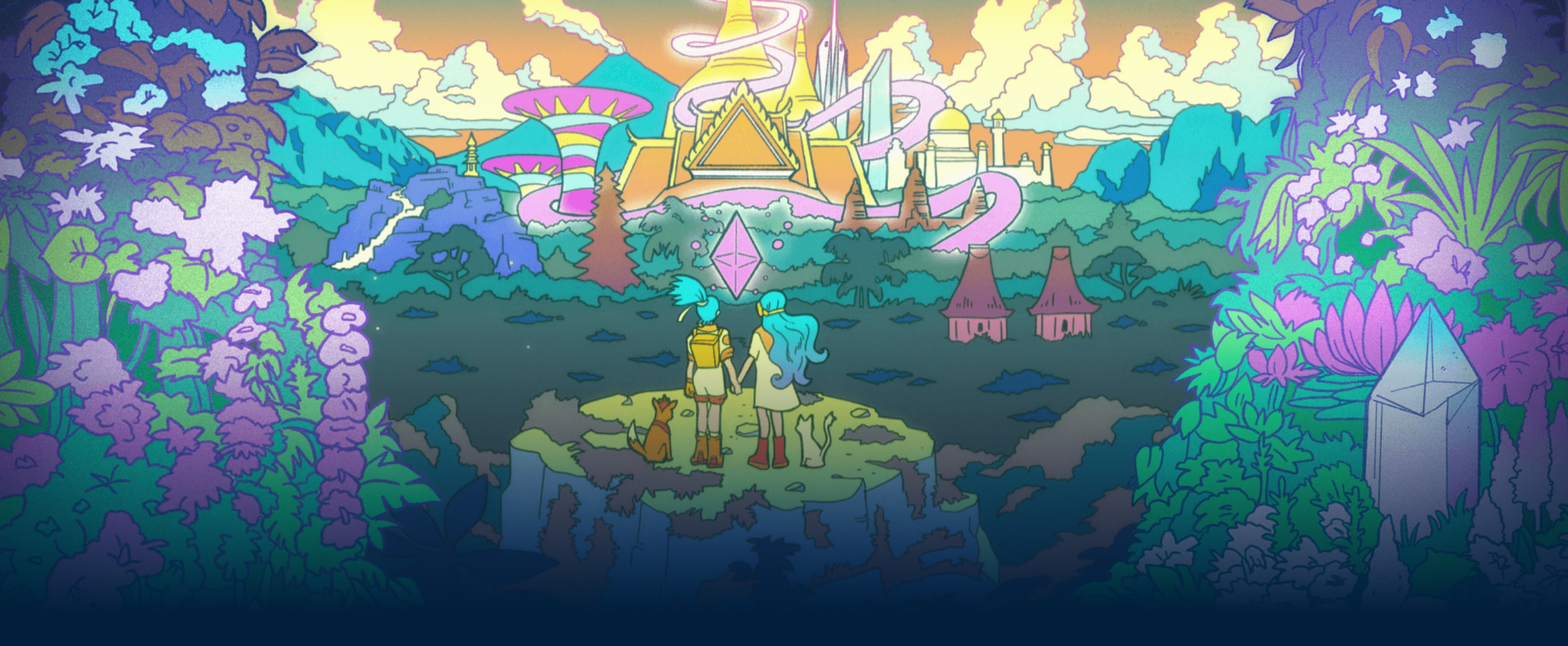
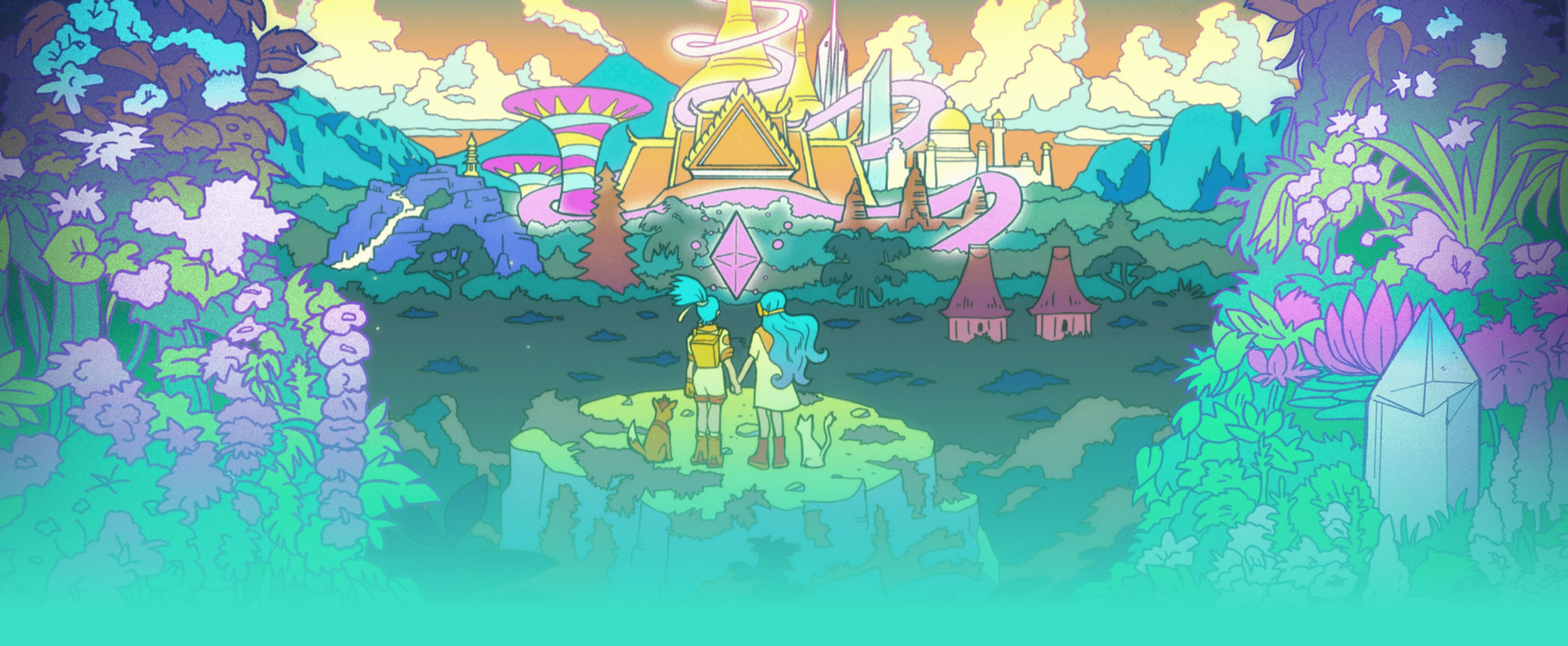
scholar devcon hero

diff --git a/src/layouts/ScholarOpen.tsx b/src/layouts/ScholarOpen.tsx
@@ -44,30 +44,33 @@ const ScholarOpen = () => {
       <ImageHero heroImage={ScholarOpenHeroImage}>
         <Box
           w="100%"
-          bg="linear-gradient(180deg, #001121 0%, #056589 100%)"
-          mt="-15%"
+          bg="linear-gradient(180deg, #3BDFC6 30%, #3BDFC6 100%)"
+          mt={{ base:"-40%", md:"-22%", lg:"-15%" }}
         >
           <Center
-            gap={8}
+            gap={4}
             flexDir="column"
             px={{ base: 8, md: 16 }}
             textAlign="center"
           >
             <Center flexDir="column">
-              <Image src={EthGlypth} alt="" w="82px" />
-              <H2 textAlign="center">Devcon SEA Scholars</H2>
+              <Image src={EthGlypth} alt="" w={{ base: "100px", md:"150px" }} />
+              <H2 textAlign="center" fontSize={{ base: 44, md: 56 }} m={0} color="#206285">Devcon SEA Scholars</H2>
             </Center>
-            <Box maxW="515px">
-              <Text>
+            <Box maxW="650px">
+              <Text color="#206285" fontSize={{ base: 18, md: 24 }}>
                 Come learn, connect, and grow with the Ethereum ecosystem.
                 November 9-17th in Bangkok, Thailand.
               </Text>
             </Box>
             <Box>
-              <ButtonLink href="/">Apply</ButtonLink>
+              <ButtonLink href="/" fontSize={24} bg="#206285" color="white" opacity="0.4">Apply Soon</ButtonLink>
             </Box>
             <Box>
-              <ButtonLink href="/">Devcon website</ButtonLink>
+            <Text color="#206285" fontSize={14} mb={2} mt={8}>
+                Know more about Devcon
+              </Text>
+              <ButtonLink fontSize={14} href="/" bg="white">Devcon website</ButtonLink>
             </Box>
           </Center>
           <Divider my={12} color="action" borderTop="1px solid" />
